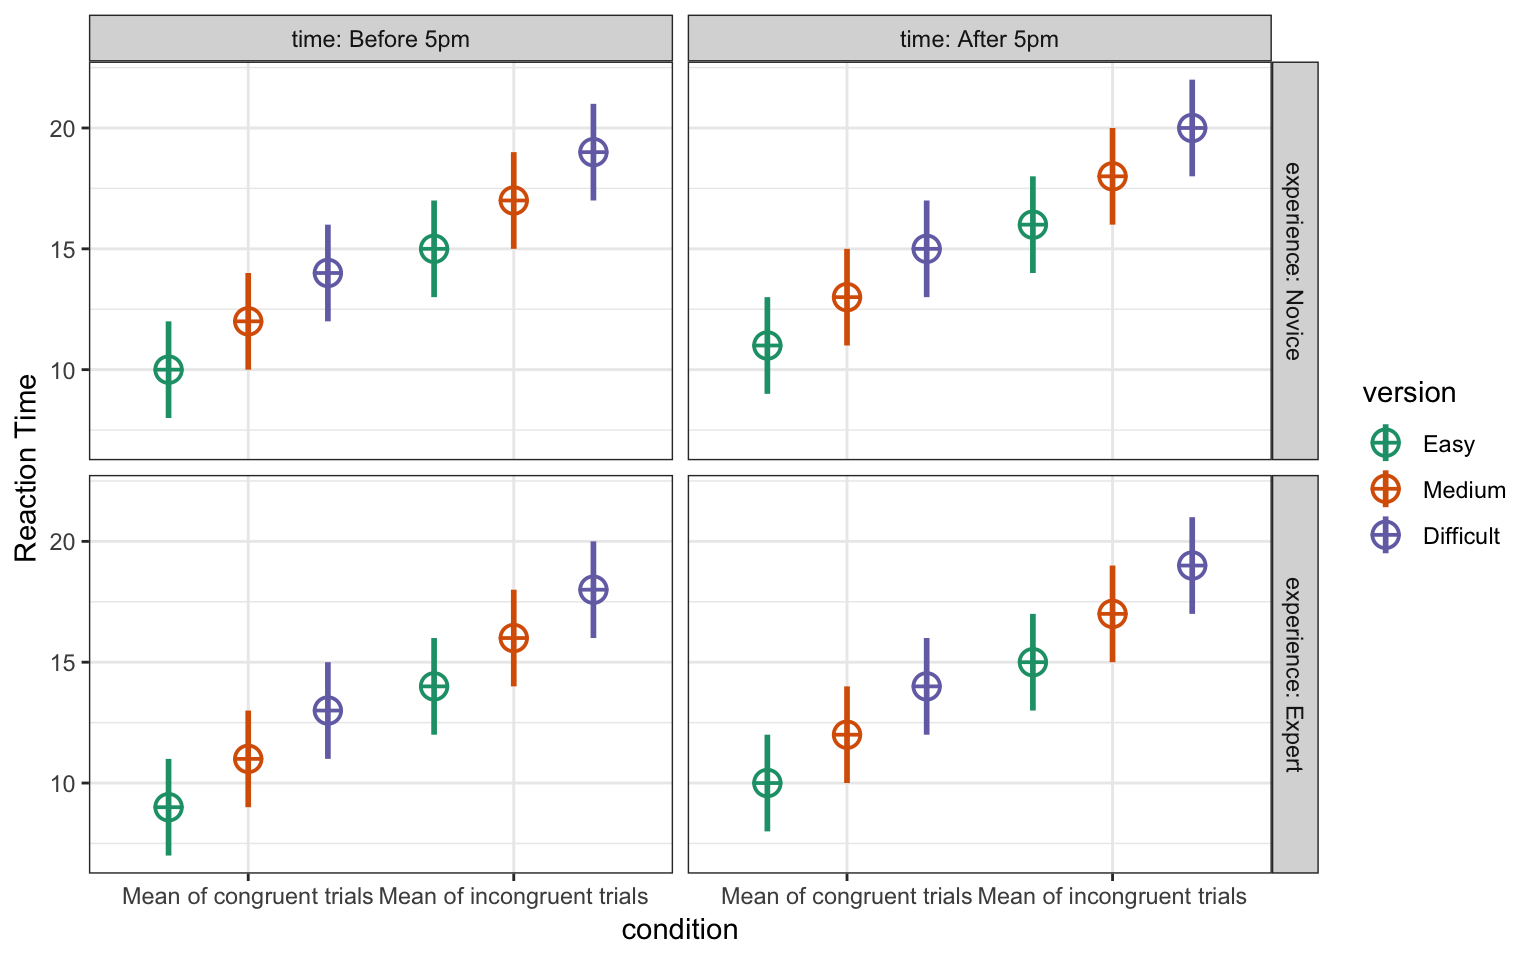
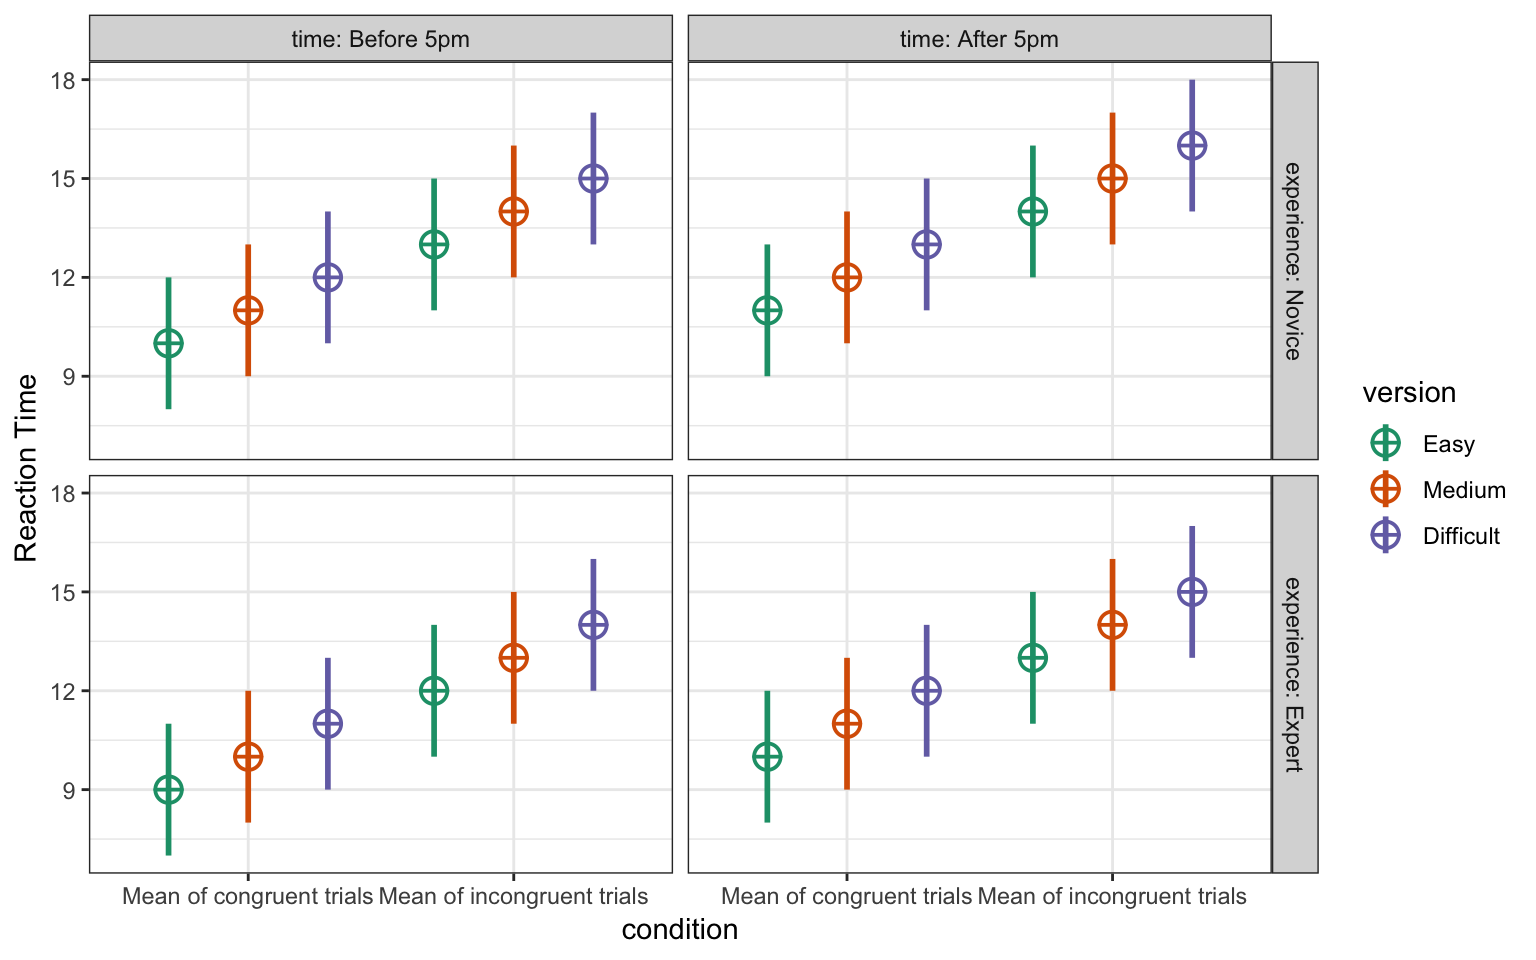
Updated sim_design vignette for new order

diff --git a/docs/articles/sim_design.html b/docs/articles/sim_design.html
@@ -6,11 +6,18 @@
 <meta http-equiv="X-UA-Compatible" content="IE=edge">
 <meta name="viewport" content="width=device-width, initial-scale=1.0">
 <title>Simulate by Design • faux</title>
+<!-- favicons --><link rel="icon" type="image/png" sizes="16x16" href="../favicon-16x16.png">
+<link rel="icon" type="image/png" sizes="32x32" href="../favicon-32x32.png">
+<link rel="apple-touch-icon" type="image/png" sizes="180x180" href="../apple-touch-icon.png">
+<link rel="apple-touch-icon" type="image/png" sizes="120x120" href="../apple-touch-icon-120x120.png">
+<link rel="apple-touch-icon" type="image/png" sizes="76x76" href="../apple-touch-icon-76x76.png">
+<link rel="apple-touch-icon" type="image/png" sizes="60x60" href="../apple-touch-icon-60x60.png">
 <!-- jquery --><script src="https://cdnjs.cloudflare.com/ajax/libs/jquery/3.3.1/jquery.min.js" integrity="sha256-FgpCb/KJQlLNfOu91ta32o/NMZxltwRo8QtmkMRdAu8=" crossorigin="anonymous"></script><!-- Bootstrap --><link rel="stylesheet" href="https://cdnjs.cloudflare.com/ajax/libs/twitter-bootstrap/3.3.7/css/bootstrap.min.css" integrity="sha256-916EbMg70RQy9LHiGkXzG8hSg9EdNy97GazNG/aiY1w=" crossorigin="anonymous">
 <script src="https://cdnjs.cloudflare.com/ajax/libs/twitter-bootstrap/3.3.7/js/bootstrap.min.js" integrity="sha256-U5ZEeKfGNOja007MMD3YBI0A3OSZOQbeG6z2f2Y0hu8=" crossorigin="anonymous"></script><!-- Font Awesome icons --><link rel="stylesheet" href="https://cdnjs.cloudflare.com/ajax/libs/font-awesome/4.7.0/css/font-awesome.min.css" integrity="sha256-eZrrJcwDc/3uDhsdt61sL2oOBY362qM3lon1gyExkL0=" crossorigin="anonymous">
 <!-- clipboard.js --><script src="https://cdnjs.cloudflare.com/ajax/libs/clipboard.js/2.0.4/clipboard.min.js" integrity="sha256-FiZwavyI2V6+EXO1U+xzLG3IKldpiTFf3153ea9zikQ=" crossorigin="anonymous"></script><!-- sticky kit --><script src="https://cdnjs.cloudflare.com/ajax/libs/sticky-kit/1.1.3/sticky-kit.min.js" integrity="sha256-c4Rlo1ZozqTPE2RLuvbusY3+SU1pQaJC0TjuhygMipw=" crossorigin="anonymous"></script><!-- pkgdown --><link href="../pkgdown.css" rel="stylesheet">
 <script src="../pkgdown.js"></script><meta property="og:title" content="Simulate by Design">
 <meta property="og:description" content="">
+<meta property="og:image" content="/logo.png">
 <meta name="twitter:card" content="summary">
 <!-- mathjax --><script src="https://cdnjs.cloudflare.com/ajax/libs/mathjax/2.7.5/MathJax.js" integrity="sha256-nvJJv9wWKEm88qvoQl9ekL2J+k/RWIsaSScxxlsrv8k=" crossorigin="anonymous"></script><script src="https://cdnjs.cloudflare.com/ajax/libs/mathjax/2.7.5/config/TeX-AMS-MML_HTMLorMML.js" integrity="sha256-84DKXVJXs0/F8OTMzX4UR909+jtl4G7SPypPavF+GfA=" crossorigin="anonymous"></script><!--[if lt IE 9]>
 <script src="https://oss.maxcdn.com/html5shiv/3.7.3/html5shiv.min.js"></script>
@@ -251,16 +258,16 @@ design &lt;-<span class="st"> </span><span class="kw"><a href="../reference/chec
 <p>You can also specify <code>n</code> as a named list of Ns per between-subject cell.</p>
 <div class="sourceCode"><pre class="sourceCode r"><code class="sourceCode r">n &lt;-<span class="st"> </span><span class="kw"><a href="https://www.rdocumentation.org/packages/base/topics/list">list</a></span>(
   <span class="dt">B1_C1 =</span> <span class="dv">10</span>, 
-  <span class="dt">B2_C1 =</span> <span class="dv">20</span>, 
-  <span class="dt">B1_C2 =</span> <span class="dv">30</span>, 
+  <span class="dt">B1_C2 =</span> <span class="dv">20</span>, 
+  <span class="dt">B2_C1 =</span> <span class="dv">30</span>, 
   <span class="dt">B2_C2 =</span> <span class="dv">40</span>
 )
 design &lt;-<span class="st"> </span><span class="kw"><a href="../reference/check_design.html">check_design</a></span>(<span class="dv">2</span>, <span class="kw"><a href="https://www.rdocumentation.org/packages/base/topics/c">c</a></span>(<span class="dv">2</span>,<span class="dv">2</span>), <span class="dt">n =</span> n, <span class="dt">plot =</span> <span class="ot">FALSE</span>)
 <span class="kw"><a href="https://www.rdocumentation.org/packages/utils/topics/str">str</a></span>(design<span class="op">$</span>n)
 <span class="co">#&gt; List of 4</span>
 <span class="co">#&gt;  $ B1_C1: num 10</span>
-<span class="co">#&gt;  $ B1_C2: num 30</span>
-<span class="co">#&gt;  $ B2_C1: num 20</span>
+<span class="co">#&gt;  $ B1_C2: num 20</span>
+<span class="co">#&gt;  $ B2_C1: num 30</span>
 <span class="co">#&gt;  $ B2_C2: num 40</span></code></pre></div>
 </div>
 <div id="dataframe" class="section level4">
@@ -270,25 +277,25 @@ design &lt;-<span class="st"> </span><span class="kw"><a href="../reference/chec
 <div class="sourceCode"><pre class="sourceCode r"><code class="sourceCode r">n &lt;-<span class="st"> </span><span class="kw"><a href="https://www.rdocumentation.org/packages/base/topics/data.frame">data.frame</a></span>(
   <span class="dt">B2_C2 =</span> <span class="dv">40</span>,
   <span class="dt">B1_C1 =</span> <span class="dv">10</span>, 
-  <span class="dt">B1_C2 =</span> <span class="dv">30</span>, 
-  <span class="dt">B2_C1 =</span> <span class="dv">20</span>
+  <span class="dt">B1_C2 =</span> <span class="dv">20</span>, 
+  <span class="dt">B2_C1 =</span> <span class="dv">30</span>
 )
 design &lt;-<span class="st"> </span><span class="kw"><a href="../reference/check_design.html">check_design</a></span>(<span class="dv">2</span>, <span class="kw"><a href="https://www.rdocumentation.org/packages/base/topics/c">c</a></span>(<span class="dv">2</span>,<span class="dv">2</span>), <span class="dt">n =</span> n, <span class="dt">plot =</span> <span class="ot">FALSE</span>)
 <span class="kw"><a href="https://www.rdocumentation.org/packages/utils/topics/str">str</a></span>(design<span class="op">$</span>n)
 <span class="co">#&gt; List of 4</span>
 <span class="co">#&gt;  $ B1_C1: num 10</span>
-<span class="co">#&gt;  $ B1_C2: num 30</span>
-<span class="co">#&gt;  $ B2_C1: num 20</span>
+<span class="co">#&gt;  $ B1_C2: num 20</span>
+<span class="co">#&gt;  $ B2_C1: num 30</span>
 <span class="co">#&gt;  $ B2_C2: num 40</span></code></pre></div>
 <p>You can specify the cells as rowname or column names and <code><a href="../reference/check_design.html">check_design()</a></code> will fix them. Since <code>n</code> <strong>has</strong> to be the same for each within-subject factor, you can specify n as a single column with any name.</p>
 <div class="sourceCode"><pre class="sourceCode r"><code class="sourceCode r">n &lt;-<span class="st"> </span><span class="kw"><a href="https://www.rdocumentation.org/packages/base/topics/data.frame">data.frame</a></span>(<span class="dt">n =</span> <span class="kw"><a href="https://www.rdocumentation.org/packages/base/topics/c">c</a></span>(<span class="dv">10</span>, <span class="dv">20</span>, <span class="dv">30</span>, <span class="dv">40</span>),
-                <span class="dt">row.names =</span> <span class="kw"><a href="https://www.rdocumentation.org/packages/base/topics/c">c</a></span>(<span class="st">"B1_C1"</span>, <span class="st">"B2_C1"</span>, <span class="st">"B1_C2"</span>, <span class="st">"B2_C2"</span>))
+                <span class="dt">row.names =</span> <span class="kw"><a href="https://www.rdocumentation.org/packages/base/topics/c">c</a></span>(<span class="st">"B1_C1"</span>, <span class="st">"B1_C2"</span>, <span class="st">"B2_C1"</span>, <span class="st">"B2_C2"</span>))
 design &lt;-<span class="st"> </span><span class="kw"><a href="../reference/check_design.html">check_design</a></span>(<span class="dv">2</span>, <span class="kw"><a href="https://www.rdocumentation.org/packages/base/topics/c">c</a></span>(<span class="dv">2</span>,<span class="dv">2</span>), <span class="dt">n =</span> n, <span class="dt">plot =</span> <span class="ot">FALSE</span>)
 <span class="kw"><a href="https://www.rdocumentation.org/packages/utils/topics/str">str</a></span>(design<span class="op">$</span>n)
 <span class="co">#&gt; List of 4</span>
 <span class="co">#&gt;  $ B1_C1: num 10</span>
-<span class="co">#&gt;  $ B1_C2: num 30</span>
-<span class="co">#&gt;  $ B2_C1: num 20</span>
+<span class="co">#&gt;  $ B1_C2: num 20</span>
+<span class="co">#&gt;  $ B2_C1: num 30</span>
 <span class="co">#&gt;  $ B2_C2: num 40</span></code></pre></div>
 </div>
 </div>
@@ -325,9 +332,9 @@ design &lt;-<span class="st"> </span><span class="kw"><a href="../reference/chec
 <a href="#named-list-of-named-vectors" class="anchor"></a>Named list of named vectors</h4>
 <p>A named list of named vectors prevents confusion due to order. The levels of the between-subject factors are the list names and the levels of the within-subject factors are the vector names, but their order doesn’t matter.</p>
 <div class="sourceCode"><pre class="sourceCode r"><code class="sourceCode r">mu &lt;-<span class="st"> </span><span class="kw"><a href="https://www.rdocumentation.org/packages/base/topics/list">list</a></span>(
-  <span class="dt">cat_B =</span> <span class="kw"><a href="https://www.rdocumentation.org/packages/base/topics/c">c</a></span>(<span class="dt">night =</span> <span class="dv">60</span>, <span class="dt">day =</span> <span class="dv">50</span>),
+  <span class="dt">cat_B =</span> <span class="kw"><a href="https://www.rdocumentation.org/packages/base/topics/c">c</a></span>(<span class="dt">night =</span> <span class="dv">40</span>, <span class="dt">day =</span> <span class="dv">30</span>),
   <span class="dt">cat_A =</span> <span class="kw"><a href="https://www.rdocumentation.org/packages/base/topics/c">c</a></span>(<span class="dt">day =</span> <span class="dv">10</span>, <span class="dt">night =</span> <span class="dv">20</span>),
-  <span class="dt">dog_A =</span> <span class="kw"><a href="https://www.rdocumentation.org/packages/base/topics/c">c</a></span>(<span class="dt">day =</span> <span class="dv">30</span>, <span class="dt">night =</span> <span class="dv">40</span>),
+  <span class="dt">dog_A =</span> <span class="kw"><a href="https://www.rdocumentation.org/packages/base/topics/c">c</a></span>(<span class="dt">day =</span> <span class="dv">50</span>, <span class="dt">night =</span> <span class="dv">60</span>),
   <span class="dt">dog_B =</span> <span class="kw"><a href="https://www.rdocumentation.org/packages/base/topics/c">c</a></span>(<span class="dt">day =</span> <span class="dv">70</span>, <span class="dt">night =</span> <span class="dv">80</span>)
 )
 design &lt;-<span class="st"> </span><span class="kw"><a href="../reference/check_design.html">check_design</a></span>(within, between, <span class="dt">mu =</span> mu, <span class="dt">sd =</span> <span class="dv">1</span>, <span class="dt">plot =</span> <span class="ot">FALSE</span>)
@@ -337,19 +344,19 @@ design &lt;-<span class="st"> </span><span class="kw"><a href="../reference/chec
 <span class="co">#&gt;   ..$ day  : num 10</span>
 <span class="co">#&gt;   ..$ night: num 20</span>
 <span class="co">#&gt;  $ cat_B:List of 2</span>
-<span class="co">#&gt;   ..$ day  : num 50</span>
-<span class="co">#&gt;   ..$ night: num 60</span>
-<span class="co">#&gt;  $ dog_A:List of 2</span>
 <span class="co">#&gt;   ..$ day  : num 30</span>
 <span class="co">#&gt;   ..$ night: num 40</span>
+<span class="co">#&gt;  $ dog_A:List of 2</span>
+<span class="co">#&gt;   ..$ day  : num 50</span>
+<span class="co">#&gt;   ..$ night: num 60</span>
 <span class="co">#&gt;  $ dog_B:List of 2</span>
 <span class="co">#&gt;   ..$ day  : num 70</span>
 <span class="co">#&gt;   ..$ night: num 80</span></code></pre></div>
 <p>Alternatively, you can specify them as dataframes.</p>
 <div class="sourceCode"><pre class="sourceCode r"><code class="sourceCode r">mu &lt;-<span class="st"> </span><span class="kw"><a href="https://www.rdocumentation.org/packages/base/topics/data.frame">data.frame</a></span>(
   <span class="dt">cat_A =</span> <span class="kw"><a href="https://www.rdocumentation.org/packages/base/topics/c">c</a></span>(<span class="dv">10</span>, <span class="dv">20</span>),
-  <span class="dt">dog_A =</span> <span class="kw"><a href="https://www.rdocumentation.org/packages/base/topics/c">c</a></span>(<span class="dv">30</span>, <span class="dv">40</span>),
-  <span class="dt">cat_B =</span> <span class="kw"><a href="https://www.rdocumentation.org/packages/base/topics/c">c</a></span>(<span class="dv">50</span>, <span class="dv">60</span>),
+  <span class="dt">cat_B =</span> <span class="kw"><a href="https://www.rdocumentation.org/packages/base/topics/c">c</a></span>(<span class="dv">30</span>, <span class="dv">40</span>),
+  <span class="dt">dog_A =</span> <span class="kw"><a href="https://www.rdocumentation.org/packages/base/topics/c">c</a></span>(<span class="dv">50</span>, <span class="dv">60</span>),
   <span class="dt">dog_B =</span> <span class="kw"><a href="https://www.rdocumentation.org/packages/base/topics/c">c</a></span>(<span class="dv">70</span>, <span class="dv">80</span>),
   <span class="dt">row.names =</span> <span class="kw"><a href="https://www.rdocumentation.org/packages/base/topics/c">c</a></span>(<span class="st">"day"</span>, <span class="st">"night"</span>)
 )
@@ -360,11 +367,11 @@ design &lt;-<span class="st"> </span><span class="kw"><a href="../reference/chec
 <span class="co">#&gt;   ..$ day  : num 10</span>
 <span class="co">#&gt;   ..$ night: num 20</span>
 <span class="co">#&gt;  $ cat_B:List of 2</span>
-<span class="co">#&gt;   ..$ day  : num 50</span>
-<span class="co">#&gt;   ..$ night: num 60</span>
-<span class="co">#&gt;  $ dog_A:List of 2</span>
 <span class="co">#&gt;   ..$ day  : num 30</span>
 <span class="co">#&gt;   ..$ night: num 40</span>
+<span class="co">#&gt;  $ dog_A:List of 2</span>
+<span class="co">#&gt;   ..$ day  : num 50</span>
+<span class="co">#&gt;   ..$ night: num 60</span>
 <span class="co">#&gt;  $ dog_B:List of 2</span>
 <span class="co">#&gt;   ..$ day  : num 70</span>
 <span class="co">#&gt;   ..$ night: num 80</span></code></pre></div>
@@ -372,7 +379,7 @@ design &lt;-<span class="st"> </span><span class="kw"><a href="../reference/chec
 <div class="sourceCode"><pre class="sourceCode r"><code class="sourceCode r">mu &lt;-<span class="st"> </span><span class="kw"><a href="https://www.rdocumentation.org/packages/base/topics/data.frame">data.frame</a></span>(
   <span class="dt">day =</span> <span class="kw"><a href="https://www.rdocumentation.org/packages/base/topics/c">c</a></span>(<span class="dv">10</span>, <span class="dv">30</span>, <span class="dv">50</span>, <span class="dv">70</span>),
   <span class="dt">night =</span> <span class="kw"><a href="https://www.rdocumentation.org/packages/base/topics/c">c</a></span>(<span class="dv">20</span>, <span class="dv">40</span>, <span class="dv">60</span>, <span class="dv">80</span>),
-  <span class="dt">row.names =</span> <span class="kw"><a href="https://www.rdocumentation.org/packages/base/topics/c">c</a></span>(<span class="st">"cat_A"</span>, <span class="st">"dog_A"</span>, <span class="st">"cat_B"</span>, <span class="st">"dog_B"</span>)
+  <span class="dt">row.names =</span> <span class="kw"><a href="https://www.rdocumentation.org/packages/base/topics/c">c</a></span>(<span class="st">"cat_A"</span>, <span class="st">"cat_B"</span>, <span class="st">"dog_A"</span>, <span class="st">"dog_B"</span>)
 )
 design &lt;-<span class="st"> </span><span class="kw"><a href="../reference/check_design.html">check_design</a></span>(within, between, <span class="dt">mu =</span> mu, <span class="dt">plot =</span> <span class="ot">FALSE</span>)
 <span class="kw"><a href="https://www.rdocumentation.org/packages/utils/topics/str">str</a></span>(design<span class="op">$</span>mu)
@@ -381,11 +388,11 @@ design &lt;-<span class="st"> </span><span class="kw"><a href="../reference/chec
 <span class="co">#&gt;   ..$ day  : num 10</span>
 <span class="co">#&gt;   ..$ night: num 20</span>
 <span class="co">#&gt;  $ cat_B:List of 2</span>
-<span class="co">#&gt;   ..$ day  : num 50</span>
-<span class="co">#&gt;   ..$ night: num 60</span>
-<span class="co">#&gt;  $ dog_A:List of 2</span>
 <span class="co">#&gt;   ..$ day  : num 30</span>
 <span class="co">#&gt;   ..$ night: num 40</span>
+<span class="co">#&gt;  $ dog_A:List of 2</span>
+<span class="co">#&gt;   ..$ day  : num 50</span>
+<span class="co">#&gt;   ..$ night: num 60</span>
 <span class="co">#&gt;  $ dog_B:List of 2</span>
 <span class="co">#&gt;   ..$ day  : num 70</span>
 <span class="co">#&gt;   ..$ night: num 80</span></code></pre></div>
@@ -397,8 +404,8 @@ design &lt;-<span class="st"> </span><span class="kw"><a href="../reference/chec
 <p>If you have any within-subject factors, you need to set the correlation for each between-cell. Here, we only have two levels of one within-subject factor, so can only set one correlation per between-cell.</p>
 <div class="sourceCode"><pre class="sourceCode r"><code class="sourceCode r">r &lt;-<span class="st"> </span><span class="kw"><a href="https://www.rdocumentation.org/packages/base/topics/list">list</a></span>(
   <span class="dt">cat_A =</span> .<span class="dv">5</span>,
-  <span class="dt">dog_A =</span> .<span class="dv">6</span>,
   <span class="dt">cat_B =</span> .<span class="dv">5</span>,
+  <span class="dt">dog_A =</span> .<span class="dv">6</span>,
   <span class="dt">dog_B =</span> .<span class="dv">4</span>
 )
 design &lt;-<span class="st"> </span><span class="kw"><a href="../reference/check_design.html">check_design</a></span>(within, between, <span class="dt">r =</span> r, <span class="dt">plot =</span> <span class="ot">FALSE</span>)
@@ -560,11 +567,12 @@ between &lt;-<span class="st"> </span><span class="kw"><a href="https://www.rdoc
 )
 
 mu &lt;-<span class="st"> </span><span class="kw"><a href="https://www.rdocumentation.org/packages/base/topics/data.frame">data.frame</a></span>(
-  <span class="dt">row.names =</span> <span class="kw"><a href="https://www.rdocumentation.org/packages/base/topics/c">c</a></span>(<span class="st">"con_easy"</span>, <span class="st">"inc_easy"</span>, <span class="st">"con_med"</span>, <span class="st">"inc_med"</span>, <span class="st">"con_hard"</span>, <span class="st">"inc_hard"</span>),
-  <span class="dt">novice_day =</span> <span class="kw"><a href="https://www.rdocumentation.org/packages/base/topics/c">c</a></span>(<span class="dv">10</span>, <span class="dv">15</span>, <span class="dv">12</span>, <span class="dv">17</span>, <span class="dv">14</span>, <span class="dv">19</span>),
-  <span class="dt">novice_night =</span> <span class="kw"><a href="https://www.rdocumentation.org/packages/base/topics/c">c</a></span>(<span class="dv">11</span>, <span class="dv">16</span>, <span class="dv">13</span>, <span class="dv">18</span>, <span class="dv">15</span>, <span class="dv">20</span>),
-  <span class="dt">expert_day =</span> <span class="kw"><a href="https://www.rdocumentation.org/packages/base/topics/c">c</a></span>(<span class="dv">9</span>, <span class="dv">14</span>, <span class="dv">11</span>, <span class="dv">16</span>, <span class="dv">13</span>, <span class="dv">18</span>),
-  <span class="dt">expert_night =</span> <span class="kw"><a href="https://www.rdocumentation.org/packages/base/topics/c">c</a></span>(<span class="dv">10</span>, <span class="dv">15</span>, <span class="dv">12</span>, <span class="dv">17</span>, <span class="dv">14</span>, <span class="dv">19</span>)
+  <span class="dt">row.names =</span> <span class="kw"><a href="https://www.rdocumentation.org/packages/base/topics/c">c</a></span>(<span class="st">"con_easy"</span>, <span class="st">"con_med"</span>, <span class="st">"con_hard"</span>,
+                <span class="st">"inc_easy"</span>, <span class="st">"inc_med"</span>,  <span class="st">"inc_hard"</span>),
+  <span class="dt">novice_day =</span> <span class="dv">10</span><span class="op">:</span><span class="dv">15</span>,
+  <span class="dt">novice_night =</span> <span class="dv">11</span><span class="op">:</span><span class="dv">16</span>,
+  <span class="dt">expert_day =</span> <span class="dv">9</span><span class="op">:</span><span class="dv">14</span>,
+  <span class="dt">expert_night =</span> <span class="dv">10</span><span class="op">:</span><span class="dv">15</span>
 )</code></pre></div>
 <p>You can set the correlation for each between-cell to a single number.</p>
 <div class="sourceCode"><pre class="sourceCode r"><code class="sourceCode r">r &lt;-<span class="st"> </span><span class="kw"><a href="https://www.rdocumentation.org/packages/base/topics/list">list</a></span>(
